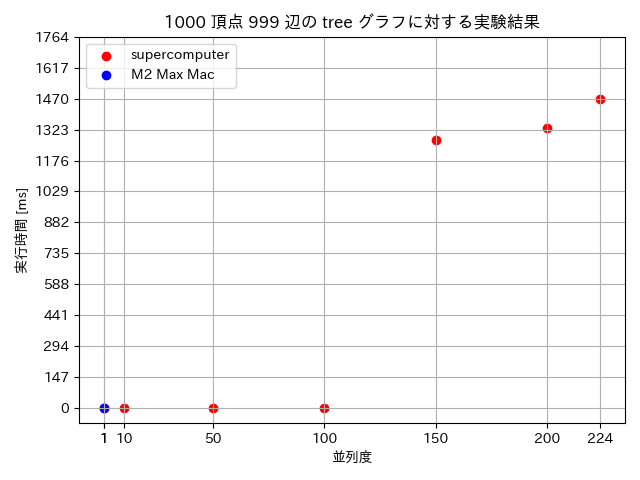
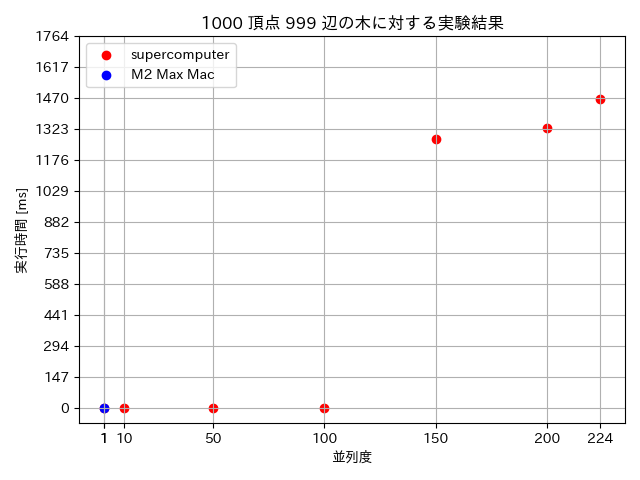
tree から木に変更

diff --git a/src/plot/graph/plot_tree.py b/src/plot/graph/plot_tree.py
@@ -5,7 +5,7 @@ import glob
 # グラフを作成する関数（引数は x 軸の上限値）
 # x 軸：並列度
 # y 軸：実行時間（ミリ秒）
-# 実験データは tree グラフの結果を使用
+# 実験データは木の結果を使用
 def plot_tree(cpu_size_limit = None):
     super_x_process_size = []
     super_y_time = []
@@ -54,7 +54,7 @@ def plot_tree(cpu_size_limit = None):
     plt.yticks(range(0, repeat * (REPEAT_SIZE + 3), repeat)) # y 軸の目盛りを設定
     plt.grid() # グリッド線を表示
     plt.legend(loc = "upper left") # 凡例を左上に表示
-    plt.title(f"1000 頂点 999 辺の tree グラフに対する実験結果")
+    plt.title(f"1000 頂点 999 辺の木に対する実験結果")
     plt.xlabel("並列度")
     plt.ylabel("実行時間 [ms]")
     plt.tight_layout() # レイアウトの調整
